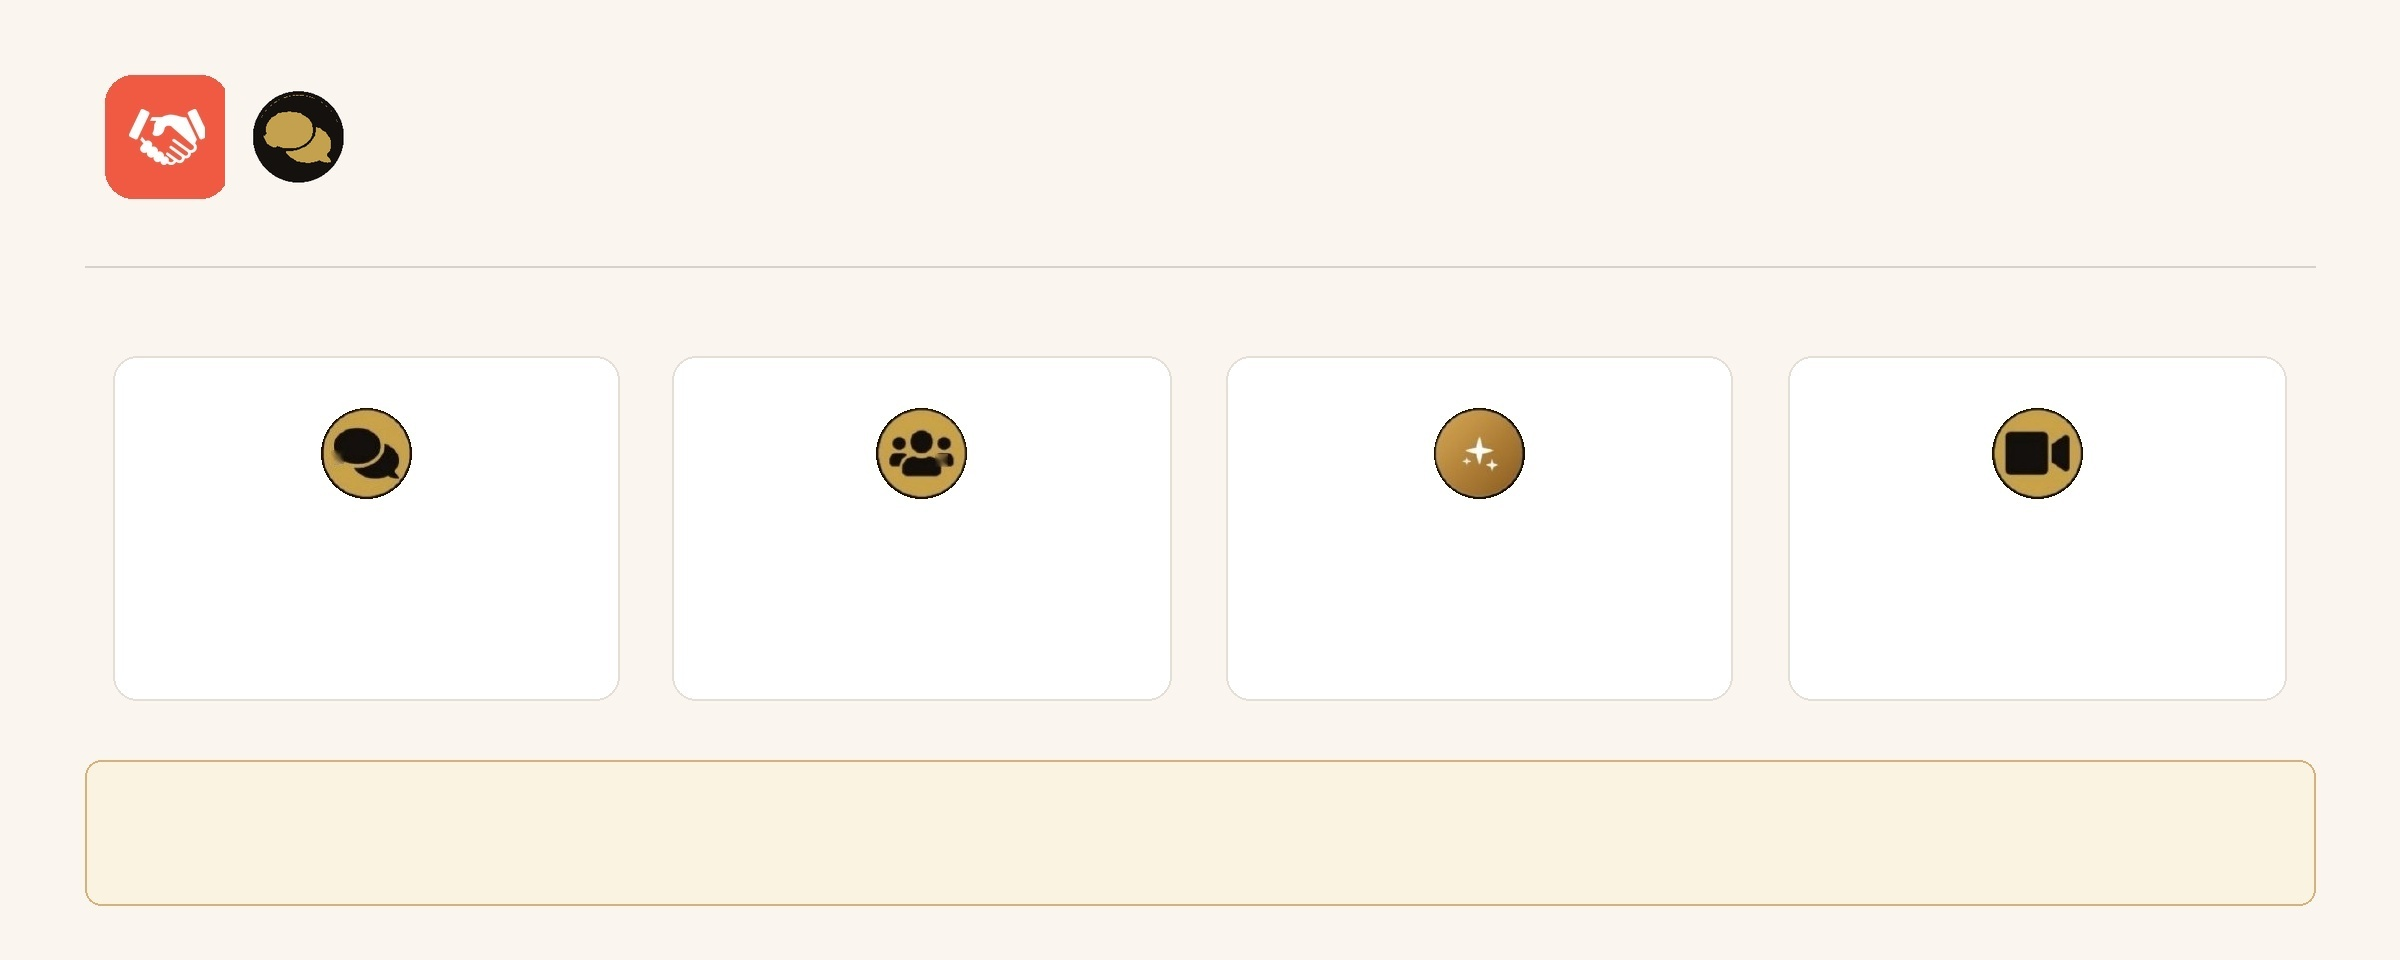
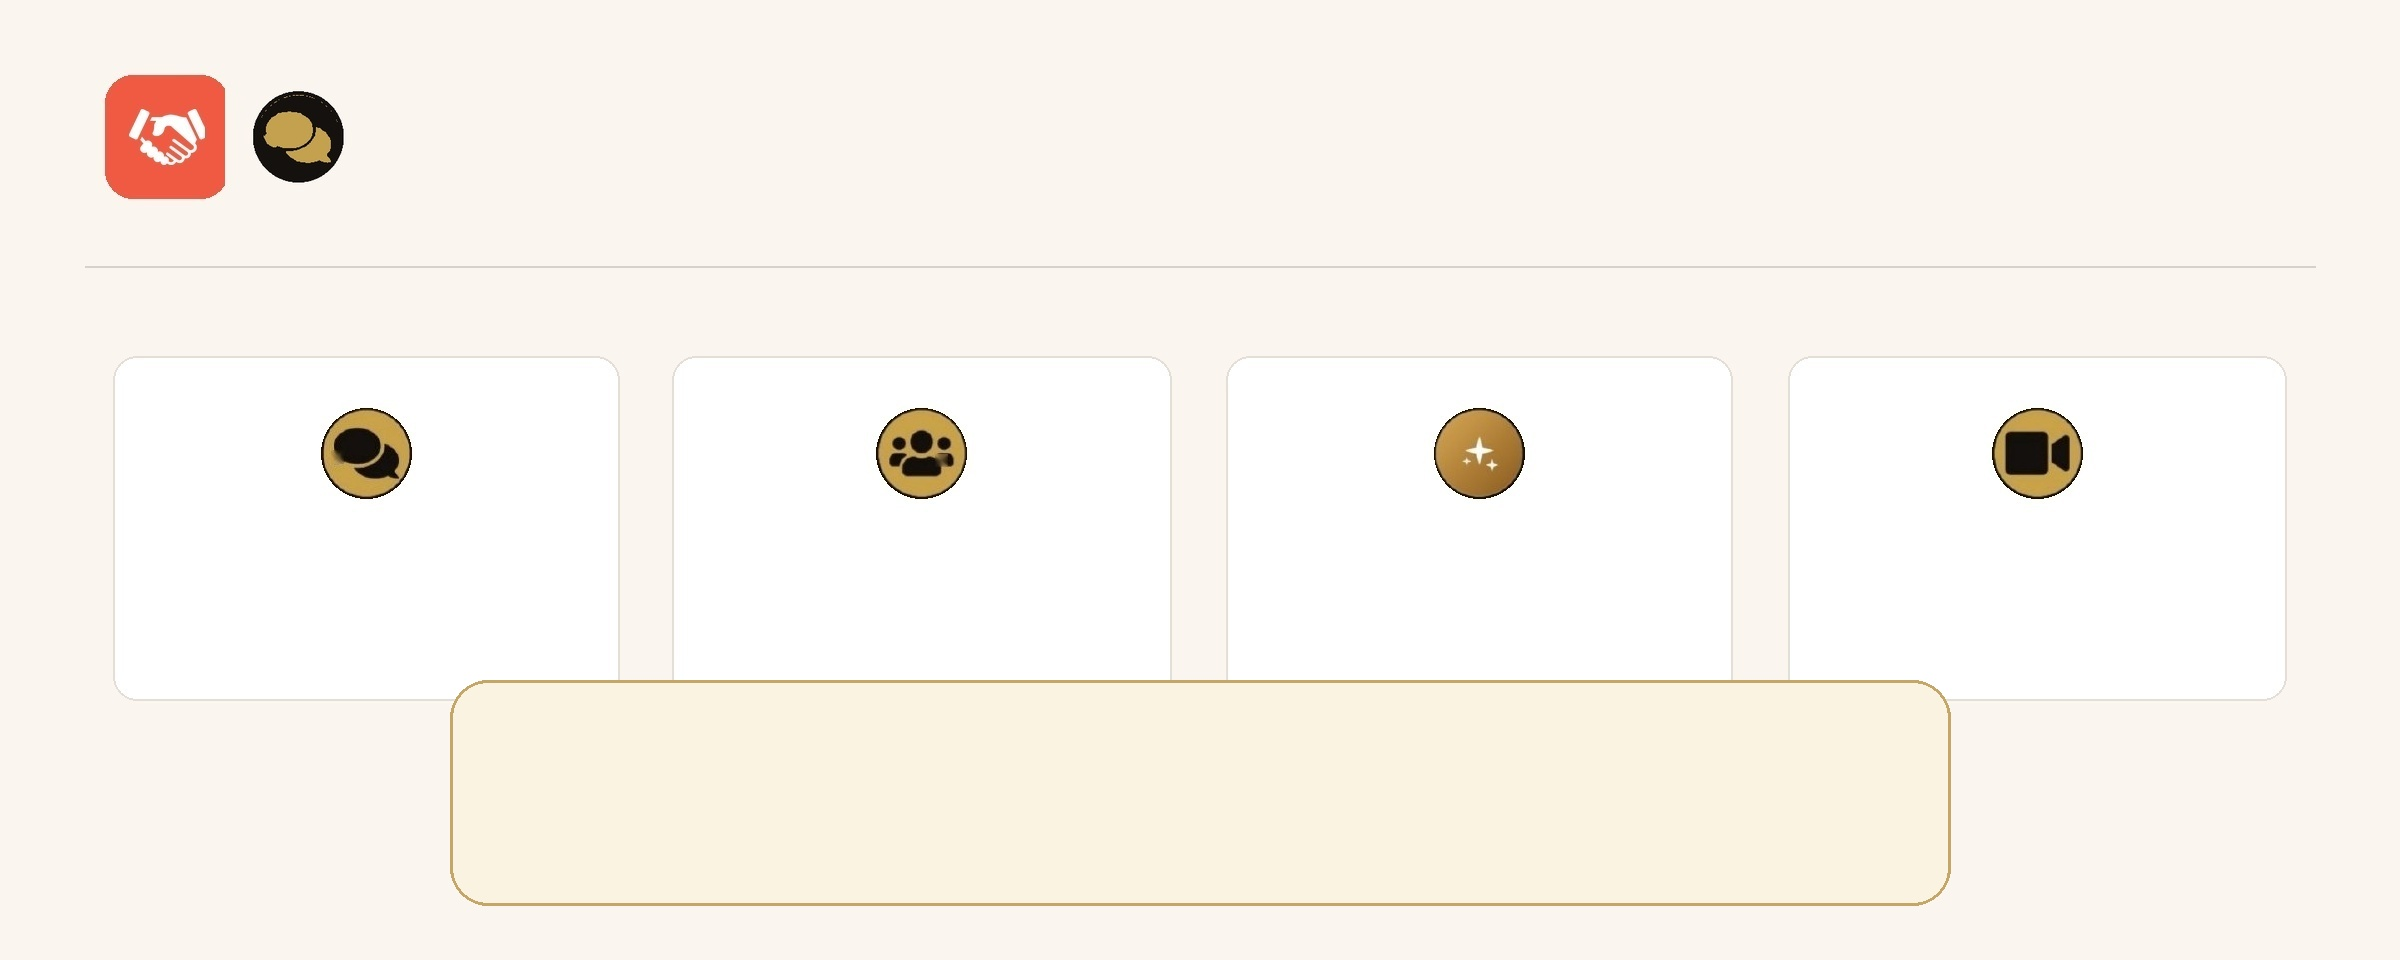
Make slide 3 quote box compact and its text crisp/bold
The quote box on slide 3 stretched almost the full slide width. Redrew
it as a compact, centered box (~62% width) instead.

Also the quote text used Playfair Display italic, but the page only
loaded the regular (upright) 700-weight face -- the browser was
faking the slant by skewing the upright glyphs, which is exactly the
soft/blurred look the italic text had. Loaded the real italic face
(plus a 900 weight) and switched the quote to font-weight:900 so the
text renders crisp and bolder instead of synthetically slanted.

Claude-Session: https://claude.ai/code/session_01CnfRud7UFKfhrBcKWTmy69

diff --git a/docs/index.html b/docs/index.html
@@ -8,7 +8,7 @@
 <meta name="viewport" content="width=device-width, initial-scale=1.0">
 <title>План курса — VIP Tattoo School</title>
 <link rel="preconnect" href="https://fonts.googleapis.com">
-<link href="https://fonts.googleapis.com/css2?family=Playfair+Display:wght@700&family=Nunito:wght@400;600;700;800&display=swap" rel="stylesheet">
+<link href="https://fonts.googleapis.com/css2?family=Playfair+Display:ital,wght@0,700;1,700;1,900&family=Nunito:wght@400;600;700;800&display=swap" rel="stylesheet">
 <style>
   *{box-sizing:border-box;}
   html,body{margin:0;padding:0;background:#15110e;}
@@ -160,9 +160,10 @@
   .ov-s3-title{ position:absolute; top:54%; box-sizing:border-box; padding:0 1.6%; text-align:center; font-family:'Playfair Display',serif; font-weight:700; font-size:1.3cqw; color:#241a10; }
   .ov-s3-desc{ position:absolute; top:60.94%; box-sizing:border-box; padding:0 1.6%; text-align:center; font-family:'Nunito',sans-serif; font-weight:800; font-size:1.05cqw; line-height:1.55; color:#241a10; }
   .ov-s3-quote{
-    position:absolute; left:3.5%; top:79.17%; width:93%; height:15.05%;
+    position:absolute; left:18.75%; top:70.83%; width:62.5%; height:23.44%;
+    box-sizing:border-box; padding:0 2%;
     display:flex; align-items:center; justify-content:center; text-align:center;
-    font-family:'Playfair Display',serif; font-style:italic; font-weight:700; font-size:1.35cqw; color:#8a5a1f;
+    font-family:'Playfair Display',serif; font-style:italic; font-weight:900; font-size:1.45cqw; line-height:1.4; color:#8a5a1f;
   }
 </style>
 </head>
@@ -212,7 +213,7 @@
     <div class="ov ov-badge on-dark" style="top:90.65%;"><span class="num">2</span><span class="den">/23</span></div>
   </div>
   <div class="slide-wrap">
-    <img class="slide-img" src="assets/slides/slide-03.jpg?v=9" alt="Слайд 3 — формат поддержки">
+    <img class="slide-img" src="assets/slides/slide-03.jpg?v=10" alt="Слайд 3 — формат поддержки">
     <div class="ov ov-s3-heading">Формат поддержки</div>
     <div class="ov ov-s3-subtitle">Как я поддерживаю тебя на протяжении всего курса:</div>
     <div class="ov ov-s3-title" style="left:4.708%;width:21.083%;">Личная обратная связь</div>
